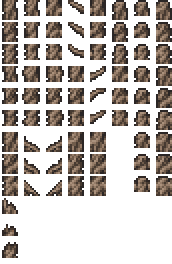
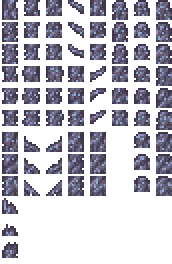
Some refactorings + working ug bg

diff --git a/Content/Trees/CrimsonInfectedBigMushroom.cs b/Content/Trees/CrimsonInfectedBigMushroom.cs
@@ -31,8 +31,8 @@ public class CrimsonInfectedBigMushroom : ModTree
     {
         GrowsOnTileId = [ModContent.TileType<CrimsonInfectedMushroomGrass>()];
         _texture = ModContent.Request<Texture2D>("BiomeExpansion/Assets/Trees/BigInfectedMushroom");
-        _branchesTexture = ModContent.Request<Texture2D>("BiomeExpansion/Assets/Trees/BigInfectedMushroomBranches");
-        _topsTexture = ModContent.Request<Texture2D>("BiomeExpansion/Assets/Trees/BigInfectedMushroomTops");
+        _branchesTexture = ModContent.Request<Texture2D>("BiomeExpansion/Assets/Trees/BigCrimsonInfectedMushroomBranches");
+        _topsTexture = ModContent.Request<Texture2D>("BiomeExpansion/Assets/Trees/BigCrimsonInfectedMushroomTops");
     }
 
     public override int SaplingGrowthType(ref int style)
@@ -43,6 +43,8 @@ public class CrimsonInfectedBigMushroom : ModTree
     
     public override void SetTreeFoliageSettings(Tile tile, ref int xoffset, ref int treeFrame, ref int floorY, ref int topTextureFrameWidth, ref int topTextureFrameHeight)
     {
+        topTextureFrameWidth = 112;
+        topTextureFrameHeight = 94;
     }
     
     public override bool Shake(int x, int y, ref bool createLeaves)

diff --git a/Content/Biomes/CorruptionInfectedMushroomSurfaceBiome.cs b/Content/Biomes/CorruptionInfectedMushroomSurfaceBiome.cs
@@ -13,7 +13,7 @@ namespace BiomeExpansion.Content.Biomes
         public override ModWaterStyle WaterStyle => ModContent.GetInstance<CorruptionInfectedMushroomWaterStyle>();
         public override CaptureBiome.TileColorStyle TileColorStyle => CaptureBiome.TileColorStyle.Corrupt;
         public override ModSurfaceBackgroundStyle SurfaceBackgroundStyle => ModContent.GetInstance<СorruptionInfectedMushroomSurfaceBiomeBGStyle>();
-        public override ModUndergroundBackgroundStyle UndergroundBackgroundStyle => ModContent.GetInstance<СorruptionInfectedMushroomCaveBiomeBGStyle>();
+        public override ModUndergroundBackgroundStyle UndergroundBackgroundStyle => ModContent.GetInstance<СorruptionInfectedMushroomSurfaceBiomeBGUGStyle>();
         public override int Music => MusicID.Mushrooms;
         public override SceneEffectPriority Priority {  
             get

diff --git a/Content/Biomes/CrimsonInfectedMushroomSurfaceBiome.cs b/Content/Biomes/CrimsonInfectedMushroomSurfaceBiome.cs
@@ -13,7 +13,7 @@ namespace BiomeExpansion.Content.Biomes
         public override ModWaterStyle WaterStyle => ModContent.GetInstance<CrimsonInfectedMushroomWaterStyle>();
         public override CaptureBiome.TileColorStyle TileColorStyle => CaptureBiome.TileColorStyle.Crimson;
         public override ModSurfaceBackgroundStyle SurfaceBackgroundStyle => ModContent.GetInstance<СrimsonInfectedMushroomSurfaceBiomeBGStyle>();
-        public override ModUndergroundBackgroundStyle UndergroundBackgroundStyle => ModContent.GetInstance<СrimsonInfectedMushroomCaveBiomeBGStyle>();
+        public override ModUndergroundBackgroundStyle UndergroundBackgroundStyle => ModContent.GetInstance<СrimsonInfectedMushroomSurfaceBiomeBGUGStyle>();
         public override int Music => MusicID.Mushrooms;
         public override SceneEffectPriority Priority {  
             get

diff --git a/Backgrounds/СorruptionInfectedMushroomSurfaceBiomeBGUGStyle.cs b/Backgrounds/СorruptionInfectedMushroomSurfaceBiomeBGUGStyle.cs
@@ -1,0 +1,16 @@
+using Terraria.ModLoader;
+
+namespace BiomeExpansion.Backgrounds;
+
+public class СorruptionInfectedMushroomSurfaceBiomeBGUGStyle : ModUndergroundBackgroundStyle
+{ 
[1 lines of base64/hex data omitted]
+
+    public override void FillTextureArray(int[] textureSlots)
+    {
+        for (int i = 0; i < 3; i++)
+        {
+            textureSlots[i] = BackgroundTextureLoader.GetBackgroundSlot(Texture + i);
+        }
+    }
+}

diff --git a/Backgrounds/СrimsonInfectedMushroomSurfaceBiomeBGUGStyle.cs b/Backgrounds/СrimsonInfectedMushroomSurfaceBiomeBGUGStyle.cs
@@ -1,0 +1,16 @@
+using Terraria.ModLoader;
+
+namespace BiomeExpansion.Backgrounds;
+
+public class СrimsonInfectedMushroomSurfaceBiomeBGUGStyle : ModUndergroundBackgroundStyle
+{ 
[1 lines of base64/hex data omitted]
+
+    public override void FillTextureArray(int[] textureSlots)
+    {
+        for (int i = 0; i < 3; i++)
+        {
+            textureSlots[i] = BackgroundTextureLoader.GetBackgroundSlot(Texture + i);
+        }
+    }
+}

diff --git a/Content/Tiles/InfectedMushroomDirt.cs b/Content/Tiles/InfectedMushroomDirt.cs
@@ -24,8 +24,7 @@ public class InfectedMushroomDirt : ModTile
         Main.tileBlockLight[Type] = true;
         Main.tileLighted[Type] = true;
         TileID.Sets.CanBeClearedDuringOreRunner[Type] = true;
-        TileID.Sets.Dirt[Type] = true;
-        HitSound = SoundID.Grass;
+        HitSound = SoundID.Dig;
         DustType = DustID.Mud;
         AddMapEntry(new Color(142, 86, 78));
     }

diff --git a/Content/Tiles/CrimsonInfectedMushroomCaveThorns.cs b/Content/Tiles/CrimsonInfectedMushroomCaveThorns.cs
@@ -16,4 +16,6 @@ public class CrimsonInfectedMushroomCaveThorns : ModTile
         DustType = DustID.CrimsonPlants;
         AddMapEntry(Color.Crimson);
     }
+    
+    
 }
